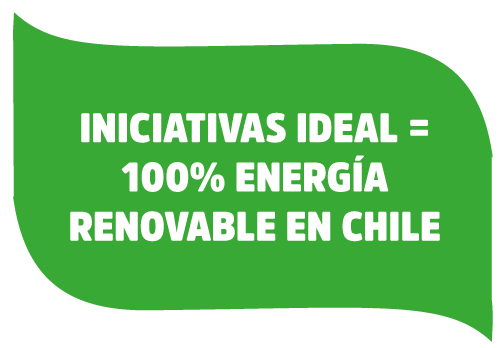
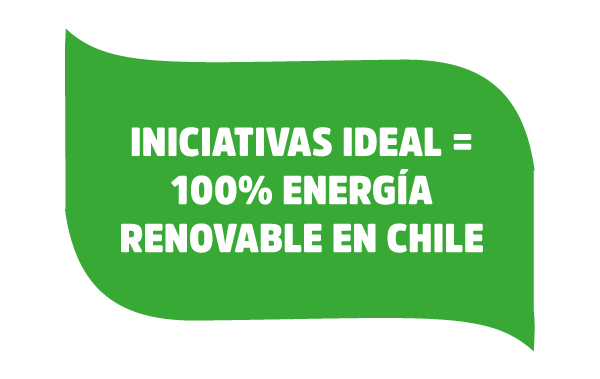
Style: change images responsive

diff --git a/styles.css b/styles.css
@@ -122,10 +122,8 @@ body {
   flex-direction: column!important;
 }
 
-.ecowash_text-strong {
-  font-family: AmsiProCond-Ultra;
-  font-size: 1.1rem;
-  letter-spacing: 1px;
+.ecowash_text {
+  font-size: 17px;
 }
 
 .ecowash_text {
@@ -224,7 +222,7 @@ header {
 }
 
 .section2_responsability-img {
-  transform: scale(1.2)
+  width: -webkit-fill-available;
 }
 
 .section2_responsability_img-wrapper {
@@ -236,7 +234,7 @@ header {
 }
 
 .section2__title_img {
-  transform: scale(1.6)
+  width: inherit;
 }
 
 /* .section5_mobile {
@@ -294,8 +292,12 @@ header {
 
 @media only screen and (max-width: 450px)  {
 
+  .equivalencies_families_img {
+    width: -webkit-fill-available;;
+  }
+
   .footer_mobile-img1 {
-    width: 80%;
+    width: -webkit-fill-available;
   }
 
   .footer__mobile_img1-wrapper {
@@ -332,6 +334,7 @@ header {
     display: flex;
     justify-content: center;
     height: 35rem;
+    margin-top: -4rem;
   }
 
   .section6__steps_wrapper-desktop {
@@ -363,6 +366,7 @@ header {
   .section6__title2_wrapper-mobile {
     display: block;
     margin-top: 2rem;
+    margin-bottom: 2rem;
   }  
 
   .section6__title1_wrapper-title1 {
